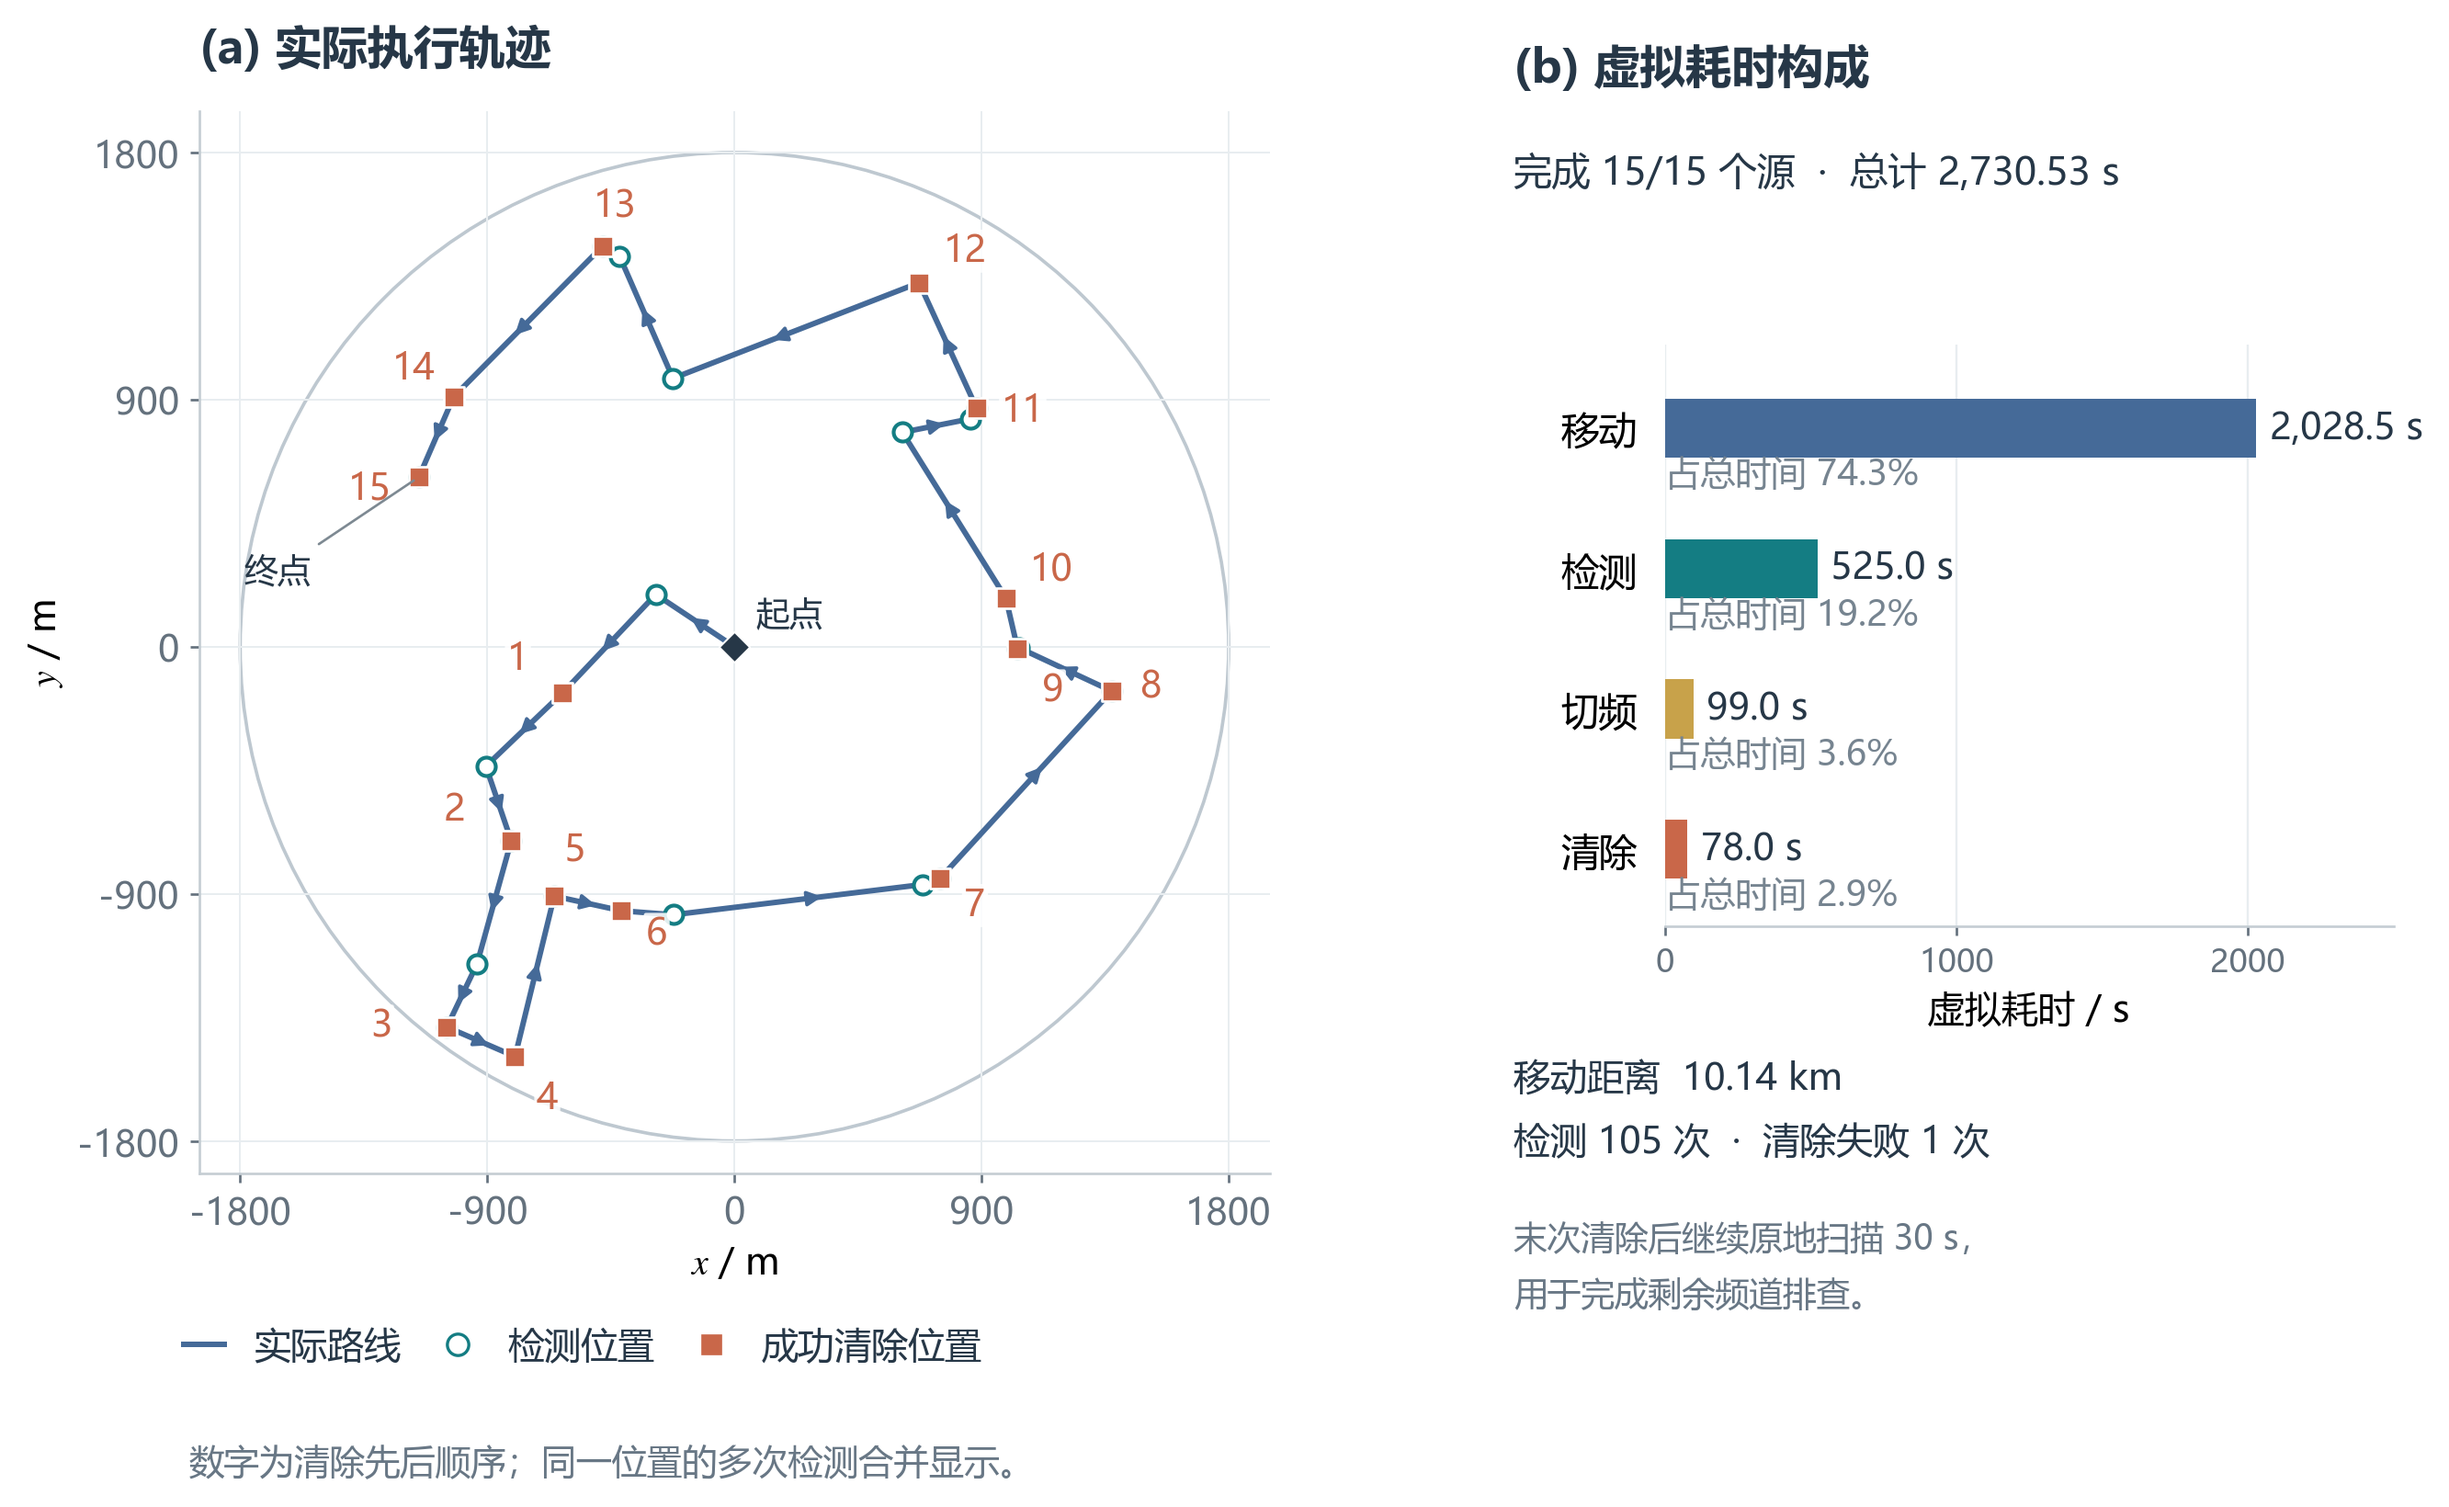
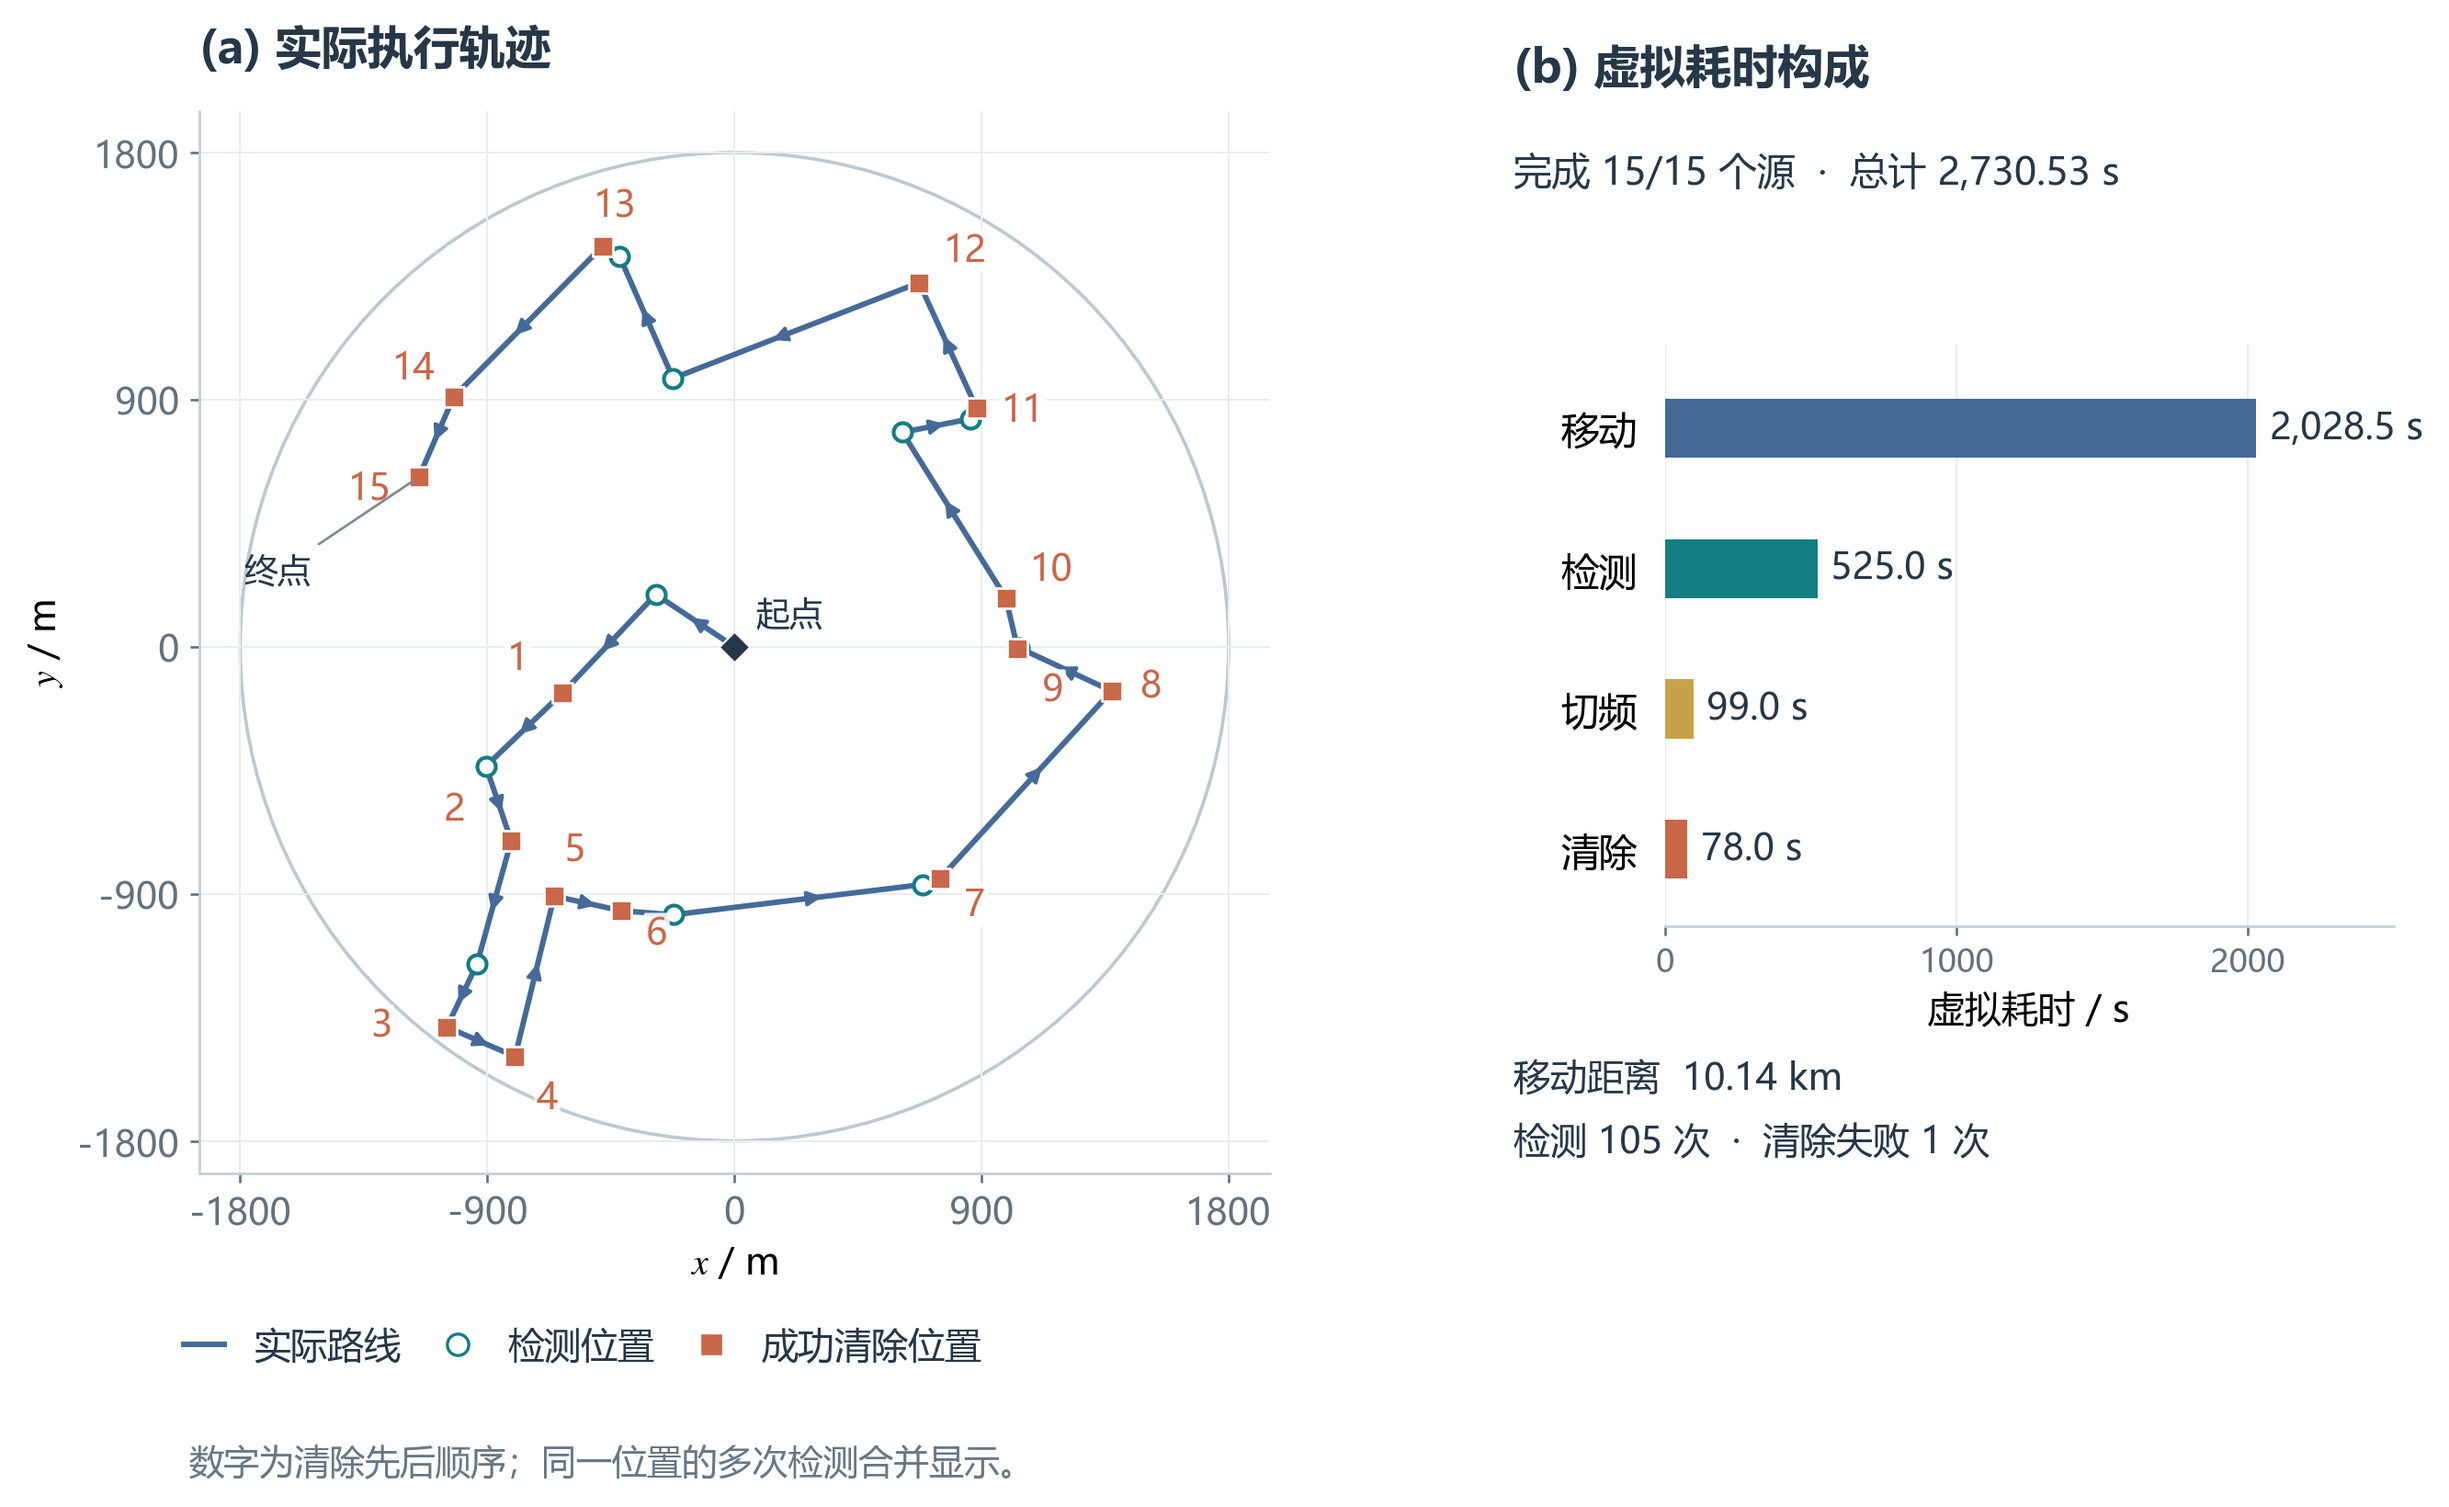
docs(essay): sync manuscript and simplify Q3 timing figure

diff --git a/essay/data/q3_execution_case/generate.py b/essay/data/q3_execution_case/generate.py
@@ -94,12 +94,10 @@ def main():
     bars.grid(axis='x',color='#E8EDF0',lw=.7,zorder=0)
     for yi,value in zip(y,values):
         bars.text(value+45,yi,f'{value:,.1f} s',va='center',fontsize=12,color=INK)
-        bars.text(0,yi+.33,f'占总时间 {value/s["virtual_time_s"]:.1%}',va='center',fontsize=11.5,color='#768490')
     fig.text(.61,.94,'(b) 虚拟耗时构成',fontsize=15,fontweight='bold',color=INK)
     fig.text(.61,.87,f'完成 {s["cleared_count"]}/{s["source_count"]} 个源  ·  总计 {s["virtual_time_s"]:,.2f} s',fontsize=12.5,color=INK)
     fig.text(.61,.205,f'移动距离  {s["movement_m"]/1000:.2f} km\n检测 {s["measure_count"]} 次  ·  清除失败 {s["failed_clears"]} 次',
         fontsize=12,color=INK,linespacing=1.8)
-    fig.text(.61,.10,'末次清除后继续原地扫描 30 s，\n用于完成剩余频道排查。',fontsize=11,color='#687785',linespacing=1.7)
     handles=[Line2D([],[],color=BLUE,lw=1.8,label='实际路线'),
              Line2D([],[],marker='o',color='none',mfc='white',mec=TEAL,markersize=7,label='检测位置'),
              Line2D([],[],marker='s',color='none',mfc=CORAL,mec='white',markersize=8,label='成功清除位置')]

diff --git a/essay/README.md b/essay/README.md
@@ -49,5 +49,6 @@ Q3新增 `q3_route_coordination/` 构造路线示意和 `q3_execution_case/` 本
 | v0.3 | 2026-09-12 | stueam（Codex协助） | 同步当前论文；Q1改为两组构造结果展示，Q2补选点准则、基线比较及紫—蓝绿—黄色组合图，新增三种选点交会对比 |
 | v0.4 | 2026-09-13 | stueam（Codex协助） | 保存当前论文修订稿；理顺Q3位置更新、动作评价、路线与完成判定，局部经验公式移至附录，压缩结果讨论；同步当前Q4表述 |
 | v0.5 | 2026-09-13 | stueam（Codex协助） | 增加Q3路线统筹示意图与本地案例轨迹、耗时构成图；同步正文、生成脚本及冻结数据，完成121次动作重放与计时核验 |
+| v0.6 | 2026-09-13 | stueam（Codex协助） | 同步当前论文措辞；精简Q3耗时图，移除百分比及末次扫描说明，同步生成脚本 |
 
 Part 1为“问题背景与重述”，Part 3为“模型假设”。本次同时统一主文件名为`essay.tex`，并将推送要求迁入README。
